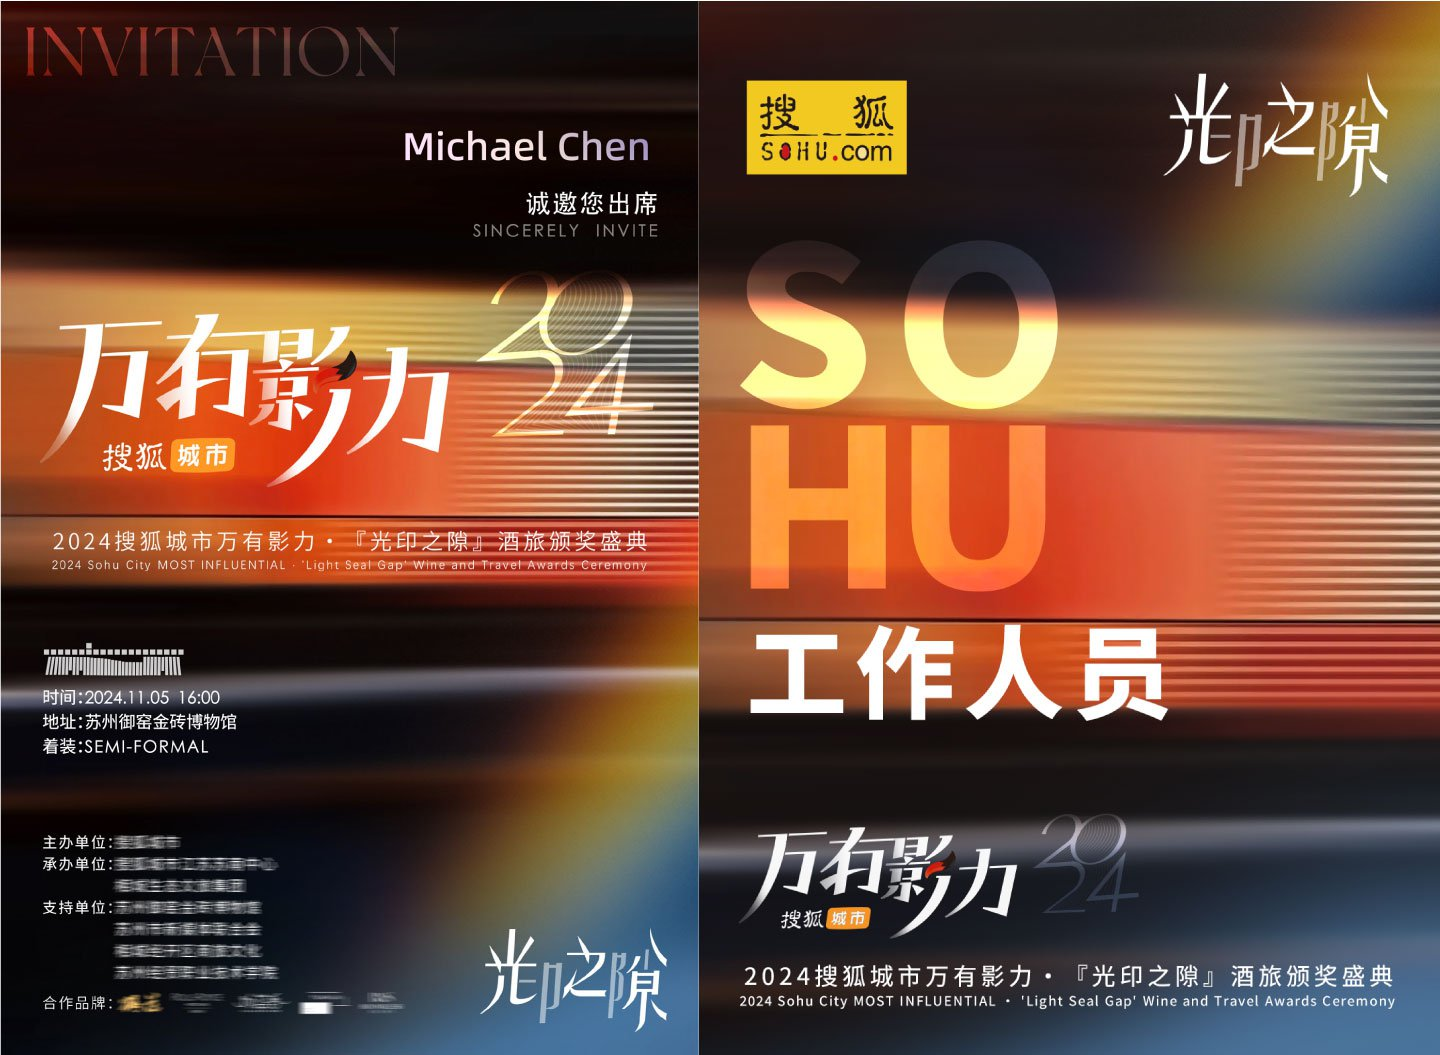
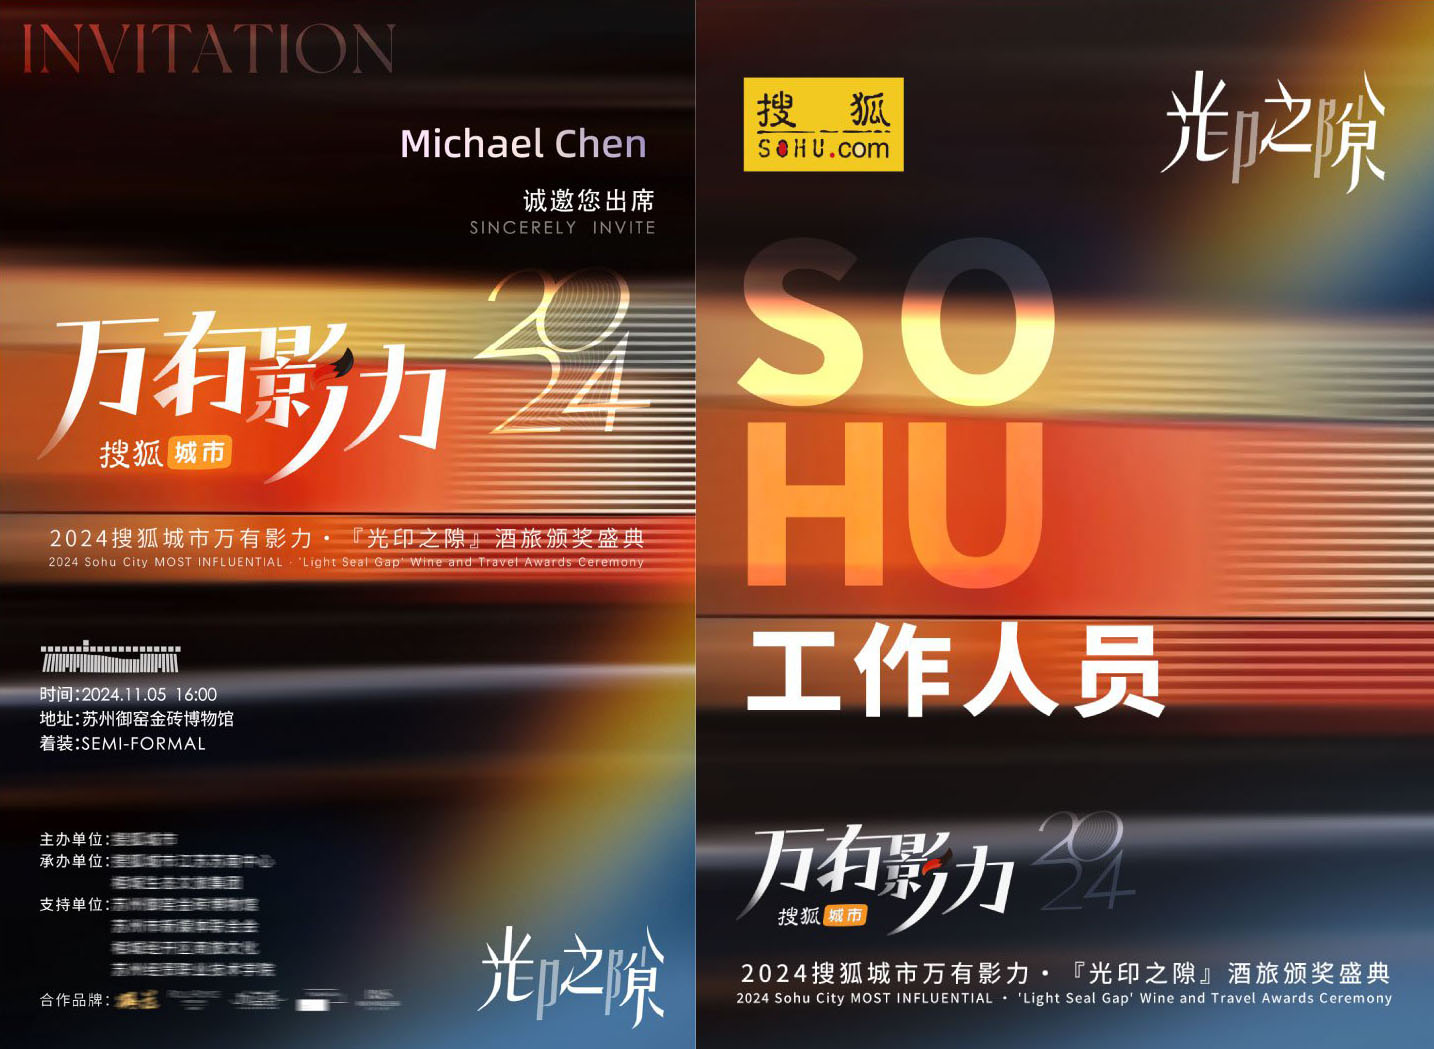
小图模式添加了切换按钮

diff --git a/templets/default/js/image-caption.js b/templets/default/js/image-caption.js
@@ -55,59 +55,111 @@ document.addEventListener('DOMContentLoaded', function() {
     }, 500);
     // 处理所有small-img的图片，并排除id为no-title的图片
     const smallImgs = Array.from(document.querySelectorAll('img[id="small-img"]')).filter(img => img.id !== 'no-title');
-    smallImgs.forEach(smallImg => {
-        // 获取图片高度并计算过渡时间
-        let smallImgHeight = smallImg.offsetHeight;
-        const transitionDuration = calculateTransitionDuration(smallImgHeight);
-        // 创建small-img-box容器
-        const smallImgBox = document.createElement('div');
-        smallImgBox.className = 'small-img-box';
-        smallImgBox.style.transition = `all ${transitionDuration} ease`;
-        smallImgBox.style.WebkitTransition = `all ${transitionDuration} ease`;
-        // 创建title-bar容器
-        const titleBar = document.createElement('div');
-        titleBar.className = 'title-bar';
-        // 创建展开长图按钮
-        const expandButton = document.createElement('div');
-        expandButton.id = 'click-expand';
-        // 创建图标元素
-        const icon = document.createElement('i');
-        icon.className = 'iconfontb';
-        icon.innerHTML = '&#xe615;';
-        // 创建文本节点
-        const textNode = document.createTextNode('展开长图');
-        // 将图标和文本添加到按钮中
-        expandButton.appendChild(icon);
-        expandButton.appendChild(textNode);
-        // 重组DOM结构
-        const wrapper = smallImg.parentNode;
-        wrapper.insertBefore(smallImgBox, smallImg);
-        wrapper.insertBefore(titleBar, smallImg);
-        smallImgBox.appendChild(smallImg);
-        // 获取已存在的image-caption并移动到title-bar中
-        const existingCaption = wrapper.querySelector('.image-caption');
-        if (existingCaption) {
-            titleBar.appendChild(existingCaption);
-        }
-        titleBar.appendChild(expandButton);
-        // 添加点击展开功能
-        expandButton.addEventListener('click', function() {
-            if (smallImgBox.classList.contains('caption-img')) {
-                smallImgBox.classList.remove('caption-img');
-                smallImgBox.style.removeProperty('max-height');
-                icon.style.transform = 'rotate(0deg)';
-                expandButton.lastChild.textContent = '展开长图';
+    // 优化：等待所有small-img图片加载完成后再处理
+    const waitForImagesLoaded = (imgs) => {
+        return Promise.all(imgs.map(img => {
+            if (img.complete && img.naturalHeight !== 0) {
+                return Promise.resolve();
             } else {
-                smallImgBox.style.maxHeight = smallImgHeight + 'px';
-                smallImgBox.classList.add('caption-img');
-                icon.style.transform = 'rotate(180deg)';
-                expandButton.lastChild.textContent = '收起长图';
+                return new Promise(resolve => {
+                    img.onload = () => resolve();
+                    img.onerror = () => resolve();
+                });
             }
+        }));
+    };
+    waitForImagesLoaded(smallImgs).then(() => {
+        smallImgs.forEach(smallImg => {
+            // 获取图片高度并计算过渡时间
+            let smallImgHeight = smallImg.offsetHeight;
+            const transitionDuration = calculateTransitionDuration(smallImgHeight);
+            // 创建small-img-box容器
+            const smallImgBox = document.createElement('div');
+            smallImgBox.className = 'small-img-box';
+            smallImgBox.style.transition = `all ${transitionDuration} ease`;
+            smallImgBox.style.WebkitTransition = `all ${transitionDuration} ease`;
+            // 创建title-bar容器
+            const titleBar = document.createElement('div');
+            titleBar.className = 'title-bar';
+            // 创建展开长图按钮
+            const expandButton = document.createElement('div');
+            expandButton.id = 'click-expand';
+            // 创建图标元素
+            const icon = document.createElement('i');
+            icon.className = 'iconfontb';
+            icon.innerHTML = '&#xe615;';
+            // 创建文本节点
+            const textNode = document.createTextNode('展开长图');
+            // 将图标和文本添加到按钮中
+            expandButton.appendChild(icon);
+            expandButton.appendChild(textNode);
+            // 重组DOM结构
+            const wrapper = smallImg.parentNode;
+            wrapper.insertBefore(smallImgBox, smallImg);
+            wrapper.insertBefore(titleBar, smallImg);
+            smallImgBox.appendChild(smallImg);
+            // 获取已存在的image-caption并移动到title-bar中
+            const existingCaption = wrapper.querySelector('.image-caption');
+            if (existingCaption) {
+                titleBar.appendChild(existingCaption);
+            }
+            titleBar.appendChild(expandButton);
+            // 添加点击展开功能
+            expandButton.addEventListener('click', function() {
+                if (smallImgBox.classList.contains('caption-img')) {
+                    smallImgBox.classList.remove('caption-img');
+                    smallImgBox.style.removeProperty('max-height');
+                    icon.style.transform = 'rotate(0deg)';
+                    expandButton.lastChild.textContent = '展开长图';
+                } else {
+                    smallImgBox.style.maxHeight = smallImgHeight + 'px';
+                    smallImgBox.classList.add('caption-img');
+                    icon.style.transform = 'rotate(180deg)';
+                    expandButton.lastChild.textContent = '收起长图';
+                }
+            });
         });
     });
 
     // 如果是小图模式，添加提示条
     if (isSmallImg) {
+        // 创建右下角悬浮窗的函数
+        function createFloatBar() {
+            if (!document.querySelector('.img-float-bar')) {
+                const floatBar = document.createElement('div');
+                floatBar.className = 'img-float-bar';
+                // 保持预览按钮
+                const floatKeepBtn = document.createElement('button');
+                floatKeepBtn.className = 'float-btn keep-preview';
+                floatKeepBtn.title = '保持预览模式';
+                const floatKeepIcon = document.createElement('i');
+                floatKeepIcon.className = 'iconfontb';
+                floatKeepIcon.innerHTML = '&#xe6d2;';
+                floatKeepBtn.appendChild(floatKeepIcon);
+                // 切换大图按钮
+                const floatSwitchBtn = document.createElement('button');
+                floatSwitchBtn.className = 'float-btn switch-large';
+                floatSwitchBtn.title = '切换大图浏览';
+                const floatSwitchIcon = document.createElement('i');
+                floatSwitchIcon.className = 'iconfontb';
+                floatSwitchIcon.innerHTML = '&#xe628;';
+                floatSwitchBtn.appendChild(floatSwitchIcon);
+                // 绑定事件
+                floatKeepBtn.addEventListener('click', () => {
+                    document.querySelectorAll('.image-box').forEach(box => {
+                        box.classList.add('small-box');
+                    });
+                });
+                floatSwitchBtn.addEventListener('click', () => {
+                    document.querySelectorAll('.image-box').forEach(box => {
+                        box.classList.remove('small-box');
+                    });
+                });
+                floatBar.appendChild(floatKeepBtn);
+                floatBar.appendChild(floatSwitchBtn);
+                document.body.appendChild(floatBar);
+            }
+        }
         // 创建提示条容器
         const noticeBar = document.createElement('div');
         noticeBar.className = 'small-img-notice';
@@ -158,18 +210,10 @@ document.addEventListener('DOMContentLoaded', function() {
         // 延迟3秒后显示
         setTimeout(() => {
             noticeBar.style.opacity = '1';
-            
-            // 设置15秒倒计时
-            let countdown = 15;
-            const countdownText = document.createElement('span');
-            countdownText.className = 'countdown-text';
-            countdownText.textContent = `(${countdown}s)`;
-            noticeText.appendChild(countdownText);
-            
+            // 设置10秒倒计时（不显示倒计时文本）
+            let countdown = 10;
             const countdownInterval = setInterval(() => {
                 countdown--;
-                countdownText.textContent = `(${countdown}s)`;
-                
                 if (countdown <= 0) {
                     clearInterval(countdownInterval);
                     // 执行保持预览模式的操作
@@ -177,27 +221,25 @@ document.addEventListener('DOMContentLoaded', function() {
                     noticeBar.style.transition = 'opacity 0.5s ease';
                     setTimeout(() => {
                         noticeBar.remove();
+                        createFloatBar();
                     }, 1000);
                 }
             }, 1000);
-            
             // 添加按钮事件监听
             const handleButtonClick = () => {
                 clearInterval(countdownInterval);
             };
-            
             keepPreviewBtn.addEventListener('click', () => {
                 handleButtonClick();
                 noticeBar.style.opacity = '0';
                 noticeBar.style.transition = 'opacity 0.5s ease';
                 setTimeout(() => {
                     noticeBar.remove();
+                    createFloatBar();
                 }, 1000);
             });
-            
             switchLargeBtn.addEventListener('click', () => {
                 handleButtonClick();
-                // 移除所有small-box类
                 document.querySelectorAll('.small-box').forEach(box => {
                     box.classList.remove('small-box');
                 });
@@ -205,8 +247,9 @@ document.addEventListener('DOMContentLoaded', function() {
                 noticeBar.style.transition = 'opacity 0.5s ease';
                 setTimeout(() => {
                     noticeBar.remove();
+                    createFloatBar();
                 }, 1000);
             });
-        }, 3000);
+        }, 0000);
     }
 });

diff --git a/templets/default/style/image-caption.css b/templets/default/style/image-caption.css
@@ -71,3 +71,30 @@
     margin-bottom: 0 !important;
     border: none;
 }
+
+.img-float-bar {
+    position: fixed;
+    right: 32px;
+    bottom: 32px;
+    z-index: 998;
+    background: rgba(255, 255, 255, 0.95);
+    border-radius: 12px;
+    padding: 6px 8px;
+    display: flex;
+    align-items: center;
+}
+.float-btn {
+    background: none;
+    border: none;
+    outline: none;
+    cursor: pointer;
+    padding: 10px;
+    border-radius: 50%;
+    transition: all 0.3s ease;
+    font-size: 16px;
+    color: #666;
+}
+.float-btn:hover {
+    background: #f0f0f0;
+    color: #222;
+}

diff --git a/data/login.data.php b/data/login.data.php
@@ -1,2 +1,2 @@
 <?php
-$str_login='{"admin":"0,1742189573","Lntadmin":"0,1744851902"}';
+$str_login='{"admin":"0,1742189573","Lntadmin":"0,1744853083"}';
